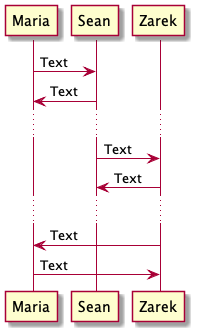
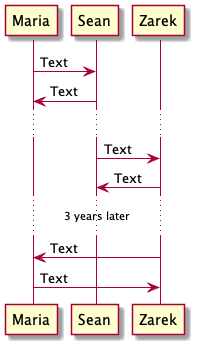
GitBook: [#95] No subject

diff --git a/minimum-viable-products/plantuml-diagrams-as-code/syntax/sequence-diagram/lifelines.md b/minimum-viable-products/plantuml-diagrams-as-code/syntax/sequence-diagram/lifelines.md
@@ -1,0 +1,164 @@
+# Lifelines
+
+### Activation and Destruction
+
+Lifelines activate and deactivate participants. Participants are activated with the "activate" command. Their life lines are concluded with the "deactivate" and "destroy" commands.
+
+```
+@startuml
+
+'Declare participants
+participant Maria
+participant Sean
+participant Zarek
+
+Maria -> Sean : Text
+
+'This will start Sean's lifeline at the above sequence
+activate Sean
+
+Maria <- Sean : Text
+Maria -> Sean : Text
+
+Sean -> Zarek : Text
+
+'This will deactivate Sean's lifeline at the above sequence
+deactivate Sean
+
+'This will activate Zarek's lifeline at the above sequence
+activate Zarek
+
+Zarek -> Maria : Text
+
+'This will destroy Zarek's lifeline at the above sequence
+destroy Zarek
+
+@enduml
+```
+
+![Activation and destruction of lifelines](../../../../.gitbook/assets/27LifelineActivationDestruction.png)
+
+### Nesting
+
+Lifelines can be nested with multiple activations of the same participant.
+
+```
+@startuml
+
+'Declare participants
+participant Maria
+participant Sean
+participant Zarek
+
+Maria -> Sean : Text
+
+'This activates Sean's primary lifeline
+activate Sean
+
+Sean -> Sean : Internal Text
+
+'This activates his secondary internal lifeline
+activate Sean
+
+Sean -> Zarek : Text
+activate Zarek
+
+Zarek -> Sean : Text
+deactivate Zarek
+
+'This  deactivate Sean's secondary lifeline
+deactivate Sean
+
+Sean -> Maria : Text
+
+'This deactivates Sean's primary lifeline
+deactivate Sean
+
+@enduml
+```
+
+![Nesting multiple lifelines for Sean](../../../../.gitbook/assets/28LifelineNesting.png)
+
+### Auto-Activation
+
+Lifelines can be automatically generated by setting autoactivate to true. In order too properly deactivate auto-activated lifelines the return command must be used. The return command deactivates the most recent lifeline that is still active and points to its activator.
+
+```
+@startuml
+
+'Declare participants
+participant Maria
+participant Sean
+participant Zarek
+
+'This activates automatic lifeline generation
+autoactivate on
+
+'This will activate Sean's primary lifeline
+'The activator is Maria
+Maria -> Sean : Maria activates Sean
+
+'This will activate Sean's secondary lifeline
+'The activator is Sean's primary lifleine
+Sean -> Sean : Sean activates Sean
+
+'This will activate Zarek's primary lifeline
+'The activator is Sean's secondary lifeline
+Sean -> Zarek : Sean activates Zarek
+
+
+'This deactivates Zarek's primary lifeline
+'And points back to its activator, Sean's secondary lifeline 
+return Zarek returns to Sean
+
+'This deactivates Sean's secondary lifeline
+'And points back to its activator, Sean's primary lifeline
+return Sean returns to Sean
+
+'This deactivates Sean's primary lifeline
+'And points back to it's activator Maria
+return Sean returns to Maria
+
+@enduml
+```
+
+![Auto-activation and return commands](../../../../.gitbook/assets/29LifelineAutoactivation.png)
+
+### Colors
+
+Lifelines can be given colors by adding a standard color name or hex code to the end of the activate line. In the case of auto-activation the color property is placed to the left of the colon on the sequence line.
+
+```
+@startuml
+
+'Declare participants
+participant Maria
+participant Sean
+participant Zarek
+
+Maria -> Sean : Text
+
+'This will activate a lifeline for Sean that is cyan
+activate Sean #cyan
+
+Sean -> Zarek : Text
+deactivate Sean
+
+'This will activate a lifeline for Zarek that is red
+activate Zarek #FF0000
+
+Zarek -> Maria : Text
+deactivate Zarek
+
+
+autoactivate on
+
+'This begins a lifeline for sean that is blue
+Maria -> Sean #0000FF :Text
+return Text
+
+@enduml
+```
+
+![Lifelines with colors](../../../../.gitbook/assets/30LifelineColors.png)
+

diff --git a/minimum-viable-products/plantuml-diagrams-as-code/syntax/sequence-diagram/icons.md b/minimum-viable-products/plantuml-diagrams-as-code/syntax/sequence-diagram/icons.md
@@ -1,6 +1,6 @@
 # Icons
 
-### Participants
+### Participant Declaration
 
 The icons in a sequence diagram are called participants. These can be declared by simply typing "participant" followed by the name of the participant.
 
@@ -90,3 +90,67 @@ participant  "**Bold** \n//Italics// \n__underline__ \n--strikethrough-- \n~~wav
 ```
 
 ![Long text, multiline, and creole formatted participant text](<../../../../.gitbook/assets/07 ParticipantTextFormatting.png>)
+
+### Participants Creating Participants
+
+Participants can create other participants not just communicate with them. This is done by using the create command before a sequence line. Sequences are more thoroughly covered in the Connectors and Terminators section.
+
+```
+@startuml
+
+'Declare participants
+participant Maria
+participant Sean
+
+Maria -> Sean : Text
+Maria <- Sean : Text
+
+'This sets up the next sequence line to be a creator
+create Zarek
+
+'This line shows Sean creating Zarek
+Sean -> Zarek : Text
+
+'This line shows communication from Sean to Zarek
+Sean -> Zarek : Text
+
+Sean <- Zarek : Text
+Zarek -> Maria : Text
+Zarek <- Maria : Text
+
+@enduml
+```
+
+![Participant Sean creates participant Zarek](../../../../.gitbook/assets/31ParticipantsCreateParticipants.png)
+
+### Participant Stereotypes and Spots
+
+A stereotype can be added to a participant. Spots are added inside the stereotype with parentheses. Spots can be colored by adding hex code. Standard color names are not supported for spots.
+
+```
+@startuml
+
+'Declare participants
+'This participant has a stereotype
+participant Maria << Middle Child >>
+
+'This participant has a cyan colored spot with a lower case Y in it
+participant Sean << (y,#00FFFF) >>
+
+'This participant has a red colored spot with a capital letter O in it
+'They also have a stereotype
+participant Zarek << (O,#FF0000) The Oldest >>
+
+Maria -> Sean : Text
+Maria <- Sean : Text
+
+Sean -> Zarek : Text
+Sean <- Zarek : Text
+
+Zarek -> Maria : Text
+Zarek <- Maria : Text
+
+@enduml
+```
+
+![Stereotypes and spots](../../../../.gitbook/assets/32Stereotypes.png)

diff --git a/minimum-viable-products/plantuml-diagrams-as-code/syntax/sequence-diagram/organization.md b/minimum-viable-products/plantuml-diagrams-as-code/syntax/sequence-diagram/organization.md
@@ -215,6 +215,50 @@ end
 
 ![Two Grouping Options](../../../../.gitbook/assets/16Grouping.png)
 
+### Boxes
+
+Participants can be encompassed inside of a box. The box has an optional title.
+
+```
+@startuml
+
+'Declare participants
+
+'This begins a box around Maria and Sean
+box
+participant Maria
+participant Sean
+
+'This ends the box around Maria and Sean
+end box
+
+'This box has a title
+box Besties
+participant Zarek
+participant Ivy
+end box
+
+Maria -> Sean : Text
+Maria <- Sean : Text
+
+Sean -> Zarek : Text
+Sean <- Zarek : Text
+
+Zarek -> Ivy : Text
+Zarek <- Ivy : Text
+
+Zarek -> Maria : Text
+Zarek <- Maria : Text
+
+@enduml
+```
+
+![Boxes](../../../../.gitbook/assets/33OrganizationBoxes.png)
+
+### Box Colors
+
+Box backgrounds can be given specific colors by adding a standard color name or hex codes. Gradients can be achieved with two colors. Box titles can be colored with HTML syntax.
+
 
 
 ### Dividers
@@ -290,7 +334,7 @@ Zarek <- Maria : Text
 
 ### Delays
 
-You can use three periods to show a delay in a sequence diagram.
+You can use three periods to show a delay in a sequence diagram. Delays have an optional text field.&#x20;
 
 ```
 @startuml
@@ -309,8 +353,8 @@ Maria <- Sean : Text
 Sean -> Zarek : Text
 Sean <- Zarek : Text
 
-'As well as here
-...
+'This delay has text
+... 3 years later ...
 
 Zarek -> Maria : Text
 Zarek <- Maria : Text
@@ -318,4 +362,4 @@ Zarek <- Maria : Text
 @enduml
 ```
 
-![Delay](../../../../.gitbook/assets/26OrganizationDelays.png)
+![Delays](../../../../.gitbook/assets/26OrganizationDelays.png)

diff --git a/SUMMARY.md b/SUMMARY.md
@@ -36,6 +36,7 @@
         * [Connectors and Terminators](minimum-viable-products/plantuml-diagrams-as-code/syntax/sequence-diagram/connectors-and-terminators.md)
         * [Organization](minimum-viable-products/plantuml-diagrams-as-code/syntax/sequence-diagram/organization.md)
         * [Notes And References](minimum-viable-products/plantuml-diagrams-as-code/syntax/sequence-diagram/notes-and-references.md)
+        * [Lifelines](minimum-viable-products/plantuml-diagrams-as-code/syntax/sequence-diagram/lifelines.md)
   * [Custom Dictionaries](minimum-viable-products/custom-dictionaries/README.md)
     * [User Stories](minimum-viable-products/custom-dictionaries/user-stories.md)
     * [Wireframes](minimum-viable-products/custom-dictionaries/wireframes.md)
